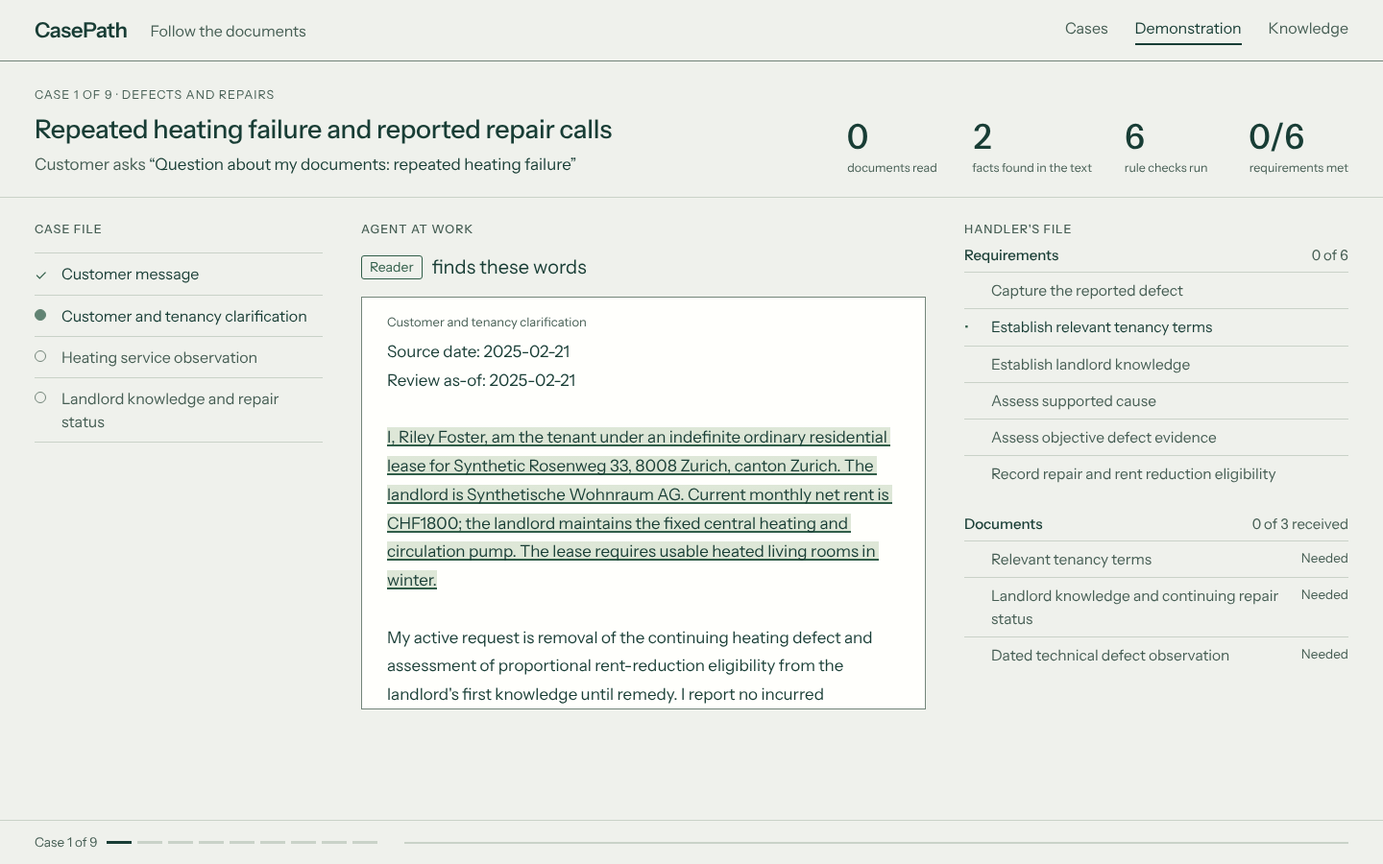
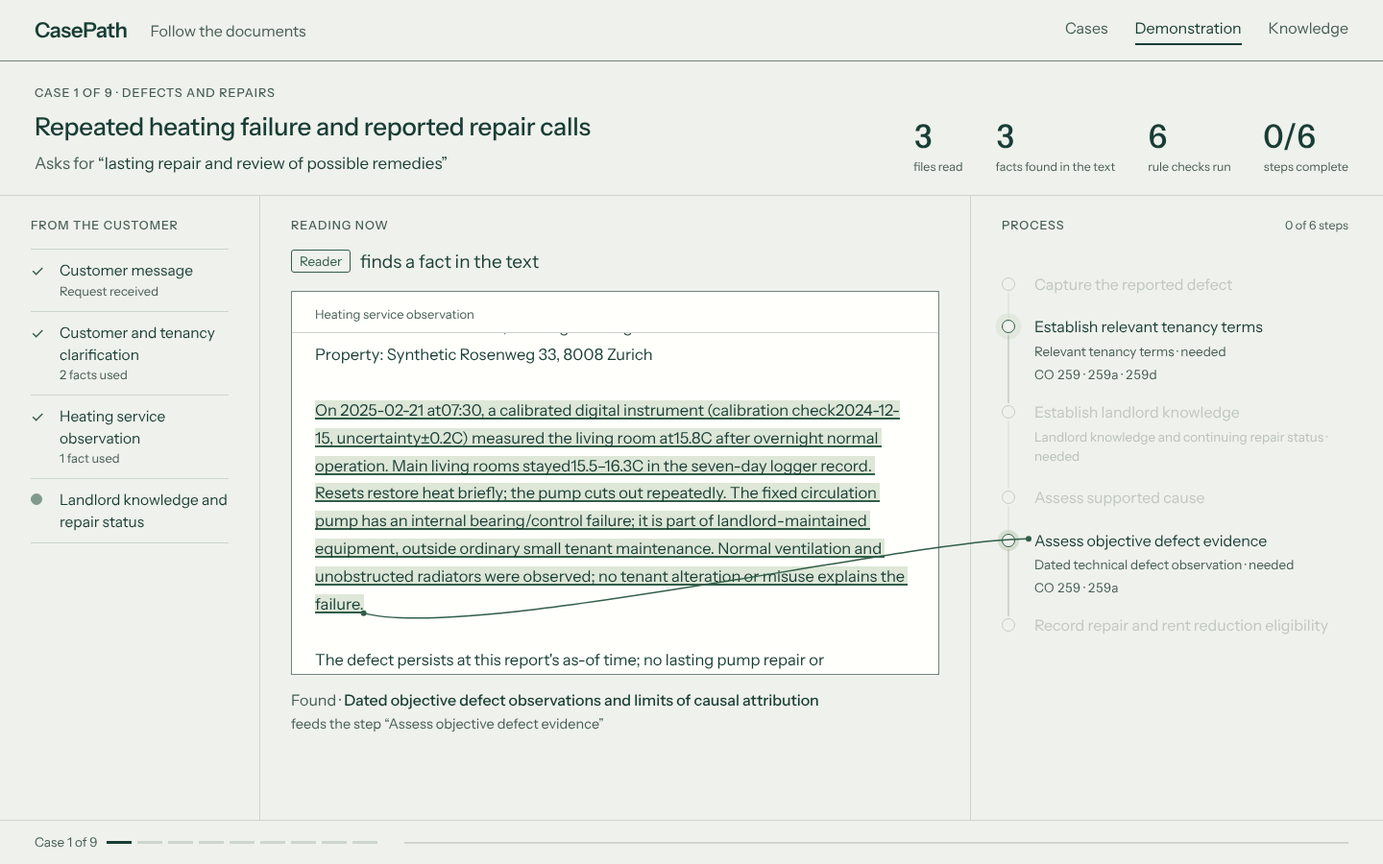
chore(design): agent desk v2 with live process graph, legal tests and useful copy
Claude-Session: https://claude.ai/code/session_01Ua3SP9623UZKFmS3phA6BH

diff --git a/design-plans/desk-20261021/desk.html b/design-plans/desk-20261021/desk.html
@@ -2,129 +2,142 @@
 <html lang="en"><head><meta charset="utf-8"><title>CasePath · Agent desk</title>
 <link rel="stylesheet" href="/assets/autonomous-workspace-v1.css">
 <style>
-:root{--ink:#183d35;--muted:#465e54;--line:#73857a;--hair:#c9d2c8;--green:#315e49;--amber:#80633c;--paper:#fffffc;--field:#eff1ec;--wash:#e1e8db;--ease:cubic-bezier(.2,.65,.3,1)}
+:root{--ink:#183d35;--muted:#465e54;--soft:#5d7268;--line:#73857a;--hair:#cdd6cc;--green:#315e49;--amber:#80633c;--paper:#fffffc;--field:#eff1ec;--wash:#e1e8db;--ease:cubic-bezier(.2,.65,.3,1)}
 *{box-sizing:border-box}html,body{margin:0;background:var(--field);color:var(--ink);font:400 16px/1.5 'CasePath Instrument',Arial,sans-serif;-webkit-font-smoothing:antialiased}
 header.top{height:64px;display:flex;align-items:center;gap:24px;padding:0 36px;border-bottom:1px solid var(--line)}
 .brand{font-weight:600;font-size:22px;letter-spacing:-.02em}.tag{color:var(--muted)}.nav{margin-left:auto;display:flex;gap:28px;color:var(--muted)}.nav b{font-weight:400;color:var(--ink);box-shadow:inset 0 -2px 0 var(--ink);padding-bottom:6px}
-.case{display:grid;grid-template-columns:1fr auto;gap:24px;align-items:end;padding:26px 36px 20px;border-bottom:1px solid var(--hair)}
-.eyebrow{font-size:12.5px;letter-spacing:.08em;text-transform:uppercase;color:var(--muted)}
-.case h1{margin:6px 0 4px;font-size:27px;font-weight:500;letter-spacing:-.01em}
-.asks{color:var(--muted);font-size:17px}.asks q{color:var(--ink)}
-.tally{display:flex;gap:34px}.metric{min-width:96px}.metric .n{font-size:36px;line-height:1;font-weight:500;font-variant-numeric:tabular-nums;letter-spacing:-.02em}.metric .l{margin-top:6px;font-size:12.5px;color:var(--muted)}
-.metric.bump .n{color:var(--green)}
-main{display:grid;grid-template-columns:300px minmax(0,1fr) 400px;gap:40px;padding:24px 36px 0;position:relative}
-.col h2{margin:0 0 14px;font-size:12.5px;font-weight:500;letter-spacing:.08em;text-transform:uppercase;color:var(--muted)}
-.files{list-style:none;margin:0;padding:0}.files li{display:grid;grid-template-columns:18px 1fr;gap:10px;align-items:start;padding:9px 0;border-top:1px solid var(--hair);color:var(--muted);transition:color .3s}
-.files li:last-child{border-bottom:1px solid var(--hair)}
-.dot{width:12px;height:12px;margin-top:5px;border-radius:50%;border:1.5px solid var(--line);display:block}
-.files li.reading{color:var(--ink)}.files li.reading .dot{border-color:var(--green);background:var(--green);animation:breath 1.6s ease-in-out infinite}
-.files li.read{color:var(--ink)}.files li.read .dot{border:0;background:none;margin-top:1px;width:auto;height:auto;color:var(--green)}
-.files li.read .dot::before{content:'✓';font-size:15px}
+.case{display:grid;grid-template-columns:1fr auto;gap:32px;align-items:end;padding:24px 36px 20px;border-bottom:1px solid var(--hair)}
+.eyebrow,.col h2{font-size:12.5px;font-weight:500;letter-spacing:.08em;text-transform:uppercase;color:var(--muted)}
+.case h1{margin:6px 0 6px;font-size:26px;font-weight:500;letter-spacing:-.01em}
+.asks{font-size:17px;color:var(--muted);max-width:760px}.asks q{color:var(--ink)}
+.tally{display:flex;gap:34px}.metric .n{font-size:34px;line-height:1;font-weight:500;font-variant-numeric:tabular-nums;letter-spacing:-.02em;transition:color .4s}.metric .l{margin-top:6px;font-size:12.5px;color:var(--muted)}.metric.bump .n{color:var(--green)}
+main{display:grid;grid-template-columns:270px minmax(0,1fr) 430px;position:relative;min-height:calc(100vh - 64px - 132px - 46px)}
+.col{padding:22px 32px 70px}.col+.col{border-left:1px solid var(--hair)}.col:first-child{padding-left:36px}.col:last-child{padding-right:36px}
+.col h2{margin:0 0 14px;display:flex;justify-content:space-between}.col h2 span{text-transform:none;letter-spacing:0;font-weight:400}
+/* From the customer */
+.files{list-style:none;margin:0;padding:0}.files li{display:grid;grid-template-columns:20px 1fr;column-gap:10px;padding:10px 0;border-top:1px solid var(--hair)}.files li:last-child{border-bottom:1px solid var(--hair)}
+.files .nm{font-size:15.5px;color:var(--soft);transition:color .3s}.files .mt{grid-column:2;font-size:13px;color:var(--muted);min-height:0}
+.st-dot{width:12px;height:12px;margin-top:5px;border-radius:50%;border:1.5px solid var(--line)}
+.files li.reading .nm,.files li.read .nm{color:var(--ink)}.files li.reading .st-dot{border-color:var(--green);background:var(--green);animation:breath 1.6s ease-in-out infinite}
+.files li.read .st-dot{border:0;width:auto;height:auto;margin-top:0;color:var(--green)}.files li.read .st-dot::before{content:'✓'}
 @keyframes breath{50%{opacity:.35}}
-.role{display:flex;align-items:baseline;gap:10px;min-height:32px;font-size:20px}.badge{font-size:14px;border:1px solid var(--green);color:var(--green);border-radius:3px;padding:1px 8px;position:relative;top:-2px}
-.role .what{transition:opacity .25s}
-.source{margin-top:14px;background:var(--paper);border:1px solid var(--line);height:430px;position:relative;display:flex;flex-direction:column}.source .scroll{overflow:hidden;padding:0 26px 22px;flex:1;position:relative}
-.source .name{font-size:13px;color:var(--muted);padding:16px 26px 10px}
-.source .text{white-space:pre-wrap;font-size:17px;line-height:1.75;transition:opacity .25s}
-mark{background:linear-gradient(90deg,rgb(116 155 99/.24) 50%,transparent 50%) right/200% 100% no-repeat;color:inherit;box-shadow:inset 0 -2px 0 transparent;transition:background-position .55s var(--ease),box-shadow .3s .45s}
-mark.on{background-position:left;box-shadow:inset 0 -2px 0 var(--green)}
-.landing{margin-top:14px;min-height:52px;font-size:16px;color:var(--muted);opacity:0;transform:translateY(6px);transition:opacity .3s var(--ease),transform .3s var(--ease)}
-.landing.on{opacity:1;transform:none}.landing b{color:var(--ink);font-weight:500}
-.file h3{display:flex;justify-content:space-between;margin:0 0 6px;font-size:15px;font-weight:500}.file h3 span{color:var(--muted);font-weight:400;font-variant-numeric:tabular-nums}
-.file ul{list-style:none;margin:0 0 22px;padding:0}.file li{display:grid;grid-template-columns:18px 1fr auto;gap:10px;padding:7px 0;border-top:1px solid var(--hair);font-size:15.5px;color:var(--muted);transition:background-color .8s,color .3s}
-.file li .st{font-size:13.5px;color:var(--muted)}
-.file li.done{color:var(--ink)}.file li.done .g::before{content:'✓';color:var(--green)}
-.file li.ev{color:var(--ink)}.file li.ev .g::before{content:'•';color:var(--green)}
-.file li.recv .st{color:var(--green)}
-.file li.glow{background-color:rgb(116 155 99/.22)}
-.g{width:18px}
-.answer{display:none;margin-top:14px;background:var(--paper);border:1px solid var(--line);padding:30px 34px;min-height:430px;opacity:0;transform:translateY(8px);transition:opacity .4s var(--ease),transform .4s var(--ease);position:relative}
-.answer.on{display:block;opacity:1;transform:none}.desk-result .source,.desk-result .landing{display:none}.answer::before{content:'';position:absolute;left:-1px;top:-1px;width:3px;height:0;background:var(--green);transition:height .5s .2s var(--ease)}.answer.on::before{height:calc(100% + 2px)}
-.answer .k{font-size:12.5px;letter-spacing:.08em;text-transform:uppercase;color:var(--muted)}.answer .lead{margin:14px 0 18px;font-size:25px;line-height:1.4;letter-spacing:-.01em}.answer .open{margin:0 0 22px;padding-left:14px;border-left:2px solid var(--amber);color:var(--amber);font-size:17px}.answer .facts{display:flex;gap:28px;margin:0 0 24px;font-size:15px;color:var(--muted)}.answer .facts b{display:block;font-size:22px;color:var(--ink);font-weight:500}
-.answer .actions{display:flex;gap:14px;align-items:center;font-size:15px;color:var(--muted)}.btn{border:1px solid var(--ink);padding:8px 16px;color:var(--ink);border-radius:2px;background:var(--paper)}
-.reuse{font-size:14px;color:var(--green);opacity:0;transition:opacity .4s;margin:-8px 0 14px}.reuse.on{opacity:1}
-svg.thread{position:absolute;inset:0;pointer-events:none;overflow:visible}
-svg.thread path{fill:none;stroke:var(--green);stroke-width:1.5;stroke-linecap:round}
-svg.thread circle{fill:var(--green)}
-footer{position:fixed;left:0;right:0;bottom:0;height:46px;display:flex;align-items:center;gap:10px;padding:0 36px;border-top:1px solid var(--hair);background:var(--field);font-size:13.5px;color:var(--muted)}
+/* Reading now */
+.role{display:flex;align-items:baseline;gap:10px;min-height:30px;font-size:19px}.badge{font-size:13.5px;border:1px solid var(--green);color:var(--green);border-radius:3px;padding:1px 8px;position:relative;top:-2px;white-space:nowrap}
+.doc{margin-top:14px;background:var(--paper);border:1px solid var(--line);height:400px;display:flex;flex-direction:column}
+.doc .name{font-size:13px;color:var(--muted);padding:14px 24px 8px;border-bottom:1px solid var(--hair)}.doc .scroll{overflow:hidden;padding:14px 24px 20px;flex:1;position:relative}
+.doc .text{white-space:pre-wrap;font-size:16.5px;line-height:1.75}
+mark{background:linear-gradient(90deg,rgb(116 155 99/.24) 50%,transparent 50%) right/200% 100% no-repeat;color:inherit;transition:background-position .55s var(--ease),box-shadow .3s .45s}mark.on{background-position:left;box-shadow:inset 0 -2px 0 var(--green)}
+.found{margin-top:14px;min-height:48px;font-size:16px;color:var(--muted);opacity:0;transform:translateY(6px);transition:opacity .3s var(--ease),transform .3s var(--ease)}.found.on{opacity:1;transform:none}.found b{color:var(--ink);font-weight:500}
+/* Process graph */
+.reuse{font-size:13.5px;color:var(--green);margin:-6px 0 12px;min-height:20px;opacity:0;transition:opacity .4s}.reuse.on{opacity:1}
+.graph{position:relative;list-style:none;margin:0;padding:0}
+.node{position:relative;padding:0 0 18px 34px;opacity:.32;transition:opacity .5s var(--ease)}
+.node .c{border-style:dashed}.node.in{opacity:1}.node.in .c{border-style:solid;animation:pop .5s var(--ease)}@keyframes pop{0%{transform:scale(.4)}70%{transform:scale(1.15)}100%{transform:none}}
+.node::before{content:'';position:absolute;left:6px;top:20px;bottom:-2px;width:1.5px;background:var(--hair)}
+.node:last-child::before{display:none}
+.node .fill{position:absolute;left:6px;top:20px;width:1.5px;height:0;background:var(--green);transition:height .6s var(--ease)}
+.node.done .fill{height:calc(100% - 18px)}.node:last-child .fill{display:none}
+.node .c{position:absolute;left:0;top:4px;width:14px;height:14px;border-radius:50%;border:1.5px solid var(--line);background:var(--field);display:grid;place-items:center;font-size:10px;color:var(--paper);transition:all .35s var(--ease)}
+.node.active .c{border-color:var(--green);box-shadow:0 0 0 4px rgb(116 155 99/.22);animation:ring 1.8s ease-in-out infinite}
+@keyframes ring{50%{box-shadow:0 0 0 7px rgb(116 155 99/.08)}}
+.node.done .c{background:var(--green);border-color:var(--green);animation:none;box-shadow:none}.node.done .c::before{content:'✓'}
+.node .lb{font-size:16px;line-height:1.4;color:var(--soft);transition:color .3s}.node.active .lb,.node.done .lb{color:var(--ink)}
+.node .ev{margin-top:4px;display:flex;flex-wrap:wrap;gap:4px 14px;font-size:13.5px;color:var(--muted)}
+.ev span{opacity:0;transition:opacity .4s var(--ease)}.ev span.in{opacity:1}.ev .ok{color:var(--green)}.ev .law{font-variant-numeric:tabular-nums;letter-spacing:.01em}
+.node.glow .lb{background:rgb(116 155 99/.2);transition:background .8s}
+/* Result */
+.result{display:none;margin-top:14px;background:var(--paper);border:1px solid var(--line);border-left:3px solid var(--green);padding:26px 30px;opacity:0;transform:translateY(8px);transition:opacity .45s var(--ease),transform .45s var(--ease)}
+.result.on{display:block;opacity:1;transform:none}.desk-result .doc,.desk-result .found{display:none}
+.result .lead{margin:10px 0 20px;font-size:22px;line-height:1.42;letter-spacing:-.01em}
+.tests{list-style:none;margin:0 0 18px;padding:0}.tests li{display:grid;grid-template-columns:20px 1fr auto;gap:10px;padding:7px 0;border-top:1px solid var(--hair);font-size:15.5px}
+.tests .y{color:var(--green)}.tests .n{color:var(--amber)}.tests .r{color:var(--muted);font-size:13.5px;font-variant-numeric:tabular-nums}
+.open{margin:0 0 20px;padding-left:12px;border-left:2px solid var(--amber);color:var(--amber);font-size:16px}
+.actions{display:flex;gap:14px;align-items:center;font-size:14.5px;color:var(--muted)}.btn{border:1px solid var(--ink);padding:8px 16px;color:var(--ink);border-radius:2px;background:var(--paper)}
+svg.thread{position:absolute;inset:0;pointer-events:none;overflow:visible;z-index:2}svg.thread path{fill:none;stroke:var(--green);stroke-width:1.5;stroke-linecap:round}svg.thread circle{fill:var(--green)}
+footer{position:fixed;left:0;right:0;bottom:0;height:46px;display:flex;align-items:center;gap:10px;padding:0 36px;border-top:1px solid var(--hair);background:var(--field);font-size:13.5px;color:var(--muted);z-index:3}
 footer .pip{width:26px;height:3px;background:var(--hair)}footer .pip.done{background:var(--green)}footer .pip.now{background:var(--ink)}
 footer .prog{flex:1;height:2px;background:var(--hair);margin-left:18px;position:relative}footer .prog i{position:absolute;left:0;top:0;bottom:0;background:var(--green);width:0;transition:width .6s var(--ease)}
+@media (prefers-reduced-motion:reduce){*{transition:none!important;animation:none!important}}
 </style></head><body>
 <header class="top"><span class="brand">CasePath</span><span class="tag">Follow the documents</span><nav class="nav"><span>Cases</span><b>Demonstration</b><span>Knowledge</span></nav></header>
-<section class="case"><div><div class="eyebrow" id="eyebrow"></div><h1 id="title"></h1><div class="asks">Customer asks <q id="asks"></q></div></div>
-<div class="tally"><div class="metric" id="m-docs"><div class="n">0</div><div class="l">documents read</div></div><div class="metric" id="m-facts"><div class="n">0</div><div class="l">facts found in the text</div></div><div class="metric" id="m-rules"><div class="n">0</div><div class="l">rule checks run</div></div><div class="metric" id="m-steps"><div class="n">0/0</div><div class="l">requirements met</div></div></div></section>
+<section class="case"><div><div class="eyebrow" id="eyebrow"></div><h1 id="title"></h1><div class="asks" id="asks"></div></div>
+<div class="tally"><div class="metric" id="m-docs"><div class="n">0</div><div class="l">files read</div></div><div class="metric" id="m-facts"><div class="n">0</div><div class="l">facts found in the text</div></div><div class="metric" id="m-rules"><div class="n">0</div><div class="l">rule checks run</div></div><div class="metric" id="m-steps"><div class="n">0/0</div><div class="l">steps complete</div></div></div></section>
 <main id="main"><svg class="thread" id="thread"></svg>
-<section class="col"><h2>Case file</h2><ul class="files" id="files"></ul></section>
-<section class="col"><h2>Agent at work</h2><div class="role"><span class="badge" id="badge">CasePath</span><span class="what" id="what">opens the case</span></div>
-<div class="source"><div class="name" id="srcname"></div><div class="scroll" id="srcscroll"><div class="text" id="srctext"></div></div></div><div class="landing" id="landing"></div><div class="answer" id="answer"></div></section>
-<section class="col file"><h2>Handler's file</h2><div class="reuse" id="reuse"></div>
-<h3>Requirements <span id="stepcount"></span></h3><ul id="steps"></ul>
-<h3>Documents <span id="doccount"></span></h3><ul id="docs"></ul></section></main>
+<section class="col"><h2>From the customer</h2><ul class="files" id="files"></ul></section>
+<section class="col"><h2>Reading now</h2><div class="role"><span class="badge" id="badge">CasePath</span><span id="what"></span></div>
+<div class="doc"><div class="name" id="docname"></div><div class="scroll" id="scroll"><div class="text" id="text"></div></div></div><div class="found" id="found"></div><div class="result" id="result"></div></section>
+<section class="col"><h2>Process <span id="stepcount"></span></h2><div class="reuse" id="reuse"></div><ol class="graph" id="graph"></ol></section></main>
 <footer><span id="pos"></span><span id="pips" style="display:flex;gap:6px"></span><span class="prog"><i id="prog"></i></span></footer>
 <script>
-const API='/api/claim-loops/v1/autonomous', ROSTER=['clm_314f2d309fea25e6','clm_4a07dbbbd859a3ce','clm_95d08975bc575592','clm_0f4f13b1e3e1328c','clm_393285577dcb12c4','clm_4a53299cfe619303','clm_2c55cdd816b1d0e8','clm_543f08f2415b2a33','clm_7dbd7c7d1c4ddf90'];
-const DOMAIN={defect_mold_heating:'Defects and repairs',lease_termination_dispute:'Lease termination',rent_increase_dispute:'Rent increases',lease_termination:'Lease termination',rent_increase:'Rent increases'};
-const $=id=>document.getElementById(id), h=s=>String(s??'').replace(/[&<>"]/g,c=>({'&':'&amp;','<':'&lt;','>':'&gt;','"':'&quot;'}[c])), sleep=ms=>new Promise(r=>setTimeout(r,ms));
-const reduced=matchMedia('(prefers-reduced-motion: reduce)').matches, SPEED=+(new URLSearchParams(location.search).get('speed')||1);
-const wait=ms=>sleep(reduced?Math.min(ms,400):ms/SPEED);
-// Labels are the recorded names; file names lose only their numeric prefix and extension.
-const fileLabel=n=>String(n||'').replace(/\.[a-z0-9]+$/i,'').replace(/^\d+[-_ ]*/,'').replace(/_\d{4}-\d{2}-\d{2}.*$/,'').replace(/[-_]+/g,' ').replace(/^./,c=>c.toUpperCase());
-function count(id,v){const el=$(id),n=el.querySelector('.n');if(n.textContent!==String(v)){n.textContent=v;el.classList.add('bump');clearTimeout(el._t);el._t=setTimeout(()=>el.classList.remove('bump'),500);}}
-async function load(id){const state=(await (await fetch(`${API}/claims/${id}`)).json()).state;const raw=await (await fetch(`${API}/claims/${id}/operations?mode=live`)).text();
-  return {state,ops:raw.split('\n').filter(Boolean).map(l=>JSON.parse(l)).filter(r=>r.type==='operation')};}
-function thread(fromEl,toEl,range){const svg=$('thread'),m=$('main').getBoundingClientRect();if(!fromEl||!toEl||reduced){svg.innerHTML='';return;}
-  const rs=fromEl.getClientRects(),a=rs.length?rs[rs.length-1]:fromEl.getBoundingClientRect(),b=toEl.getBoundingClientRect(),x1=a.right-m.left,y1=a.bottom-m.top,x2=b.left-m.left+4,y2=b.top+b.height/2-m.top;
-  const d=`M${x1},${y1} C${x1+120},${y1+40} ${x2-140},${y2} ${x2},${y2}`;svg.innerHTML=`<path d="${d}"/><circle cx="${x1}" cy="${y1}" r="3"/><circle cx="${x2}" cy="${y2}" r="0"/>`;
-  const p=svg.querySelector('path'),L=p.getTotalLength();p.style.strokeDasharray=L;p.style.strokeDashoffset=L;
-  p.animate([{strokeDashoffset:L},{strokeDashoffset:0}],{duration:650/SPEED,easing:'cubic-bezier(.2,.65,.3,1)',fill:'forwards'}).onfinish=()=>svg.querySelector('circle:last-child')?.setAttribute('r','3');}
-function clearThread(){const p=$('thread').querySelector('path');if(p)p.animate([{opacity:1},{opacity:0}],{duration:500,fill:'forwards'});$('thread').querySelectorAll('circle').forEach(c=>c.animate([{opacity:1},{opacity:0}],{duration:500,fill:'forwards'}));}
-function role(r,what){$('badge').textContent=r;$('what').textContent=what;}
-function showSource(op,quote){const text=op.result?.text||'',name=fileLabel(op.result?.file_name);$('srcname').textContent=name;const box=$('srctext');
-  if(!quote){box.textContent=text.replace(/^Synthetic demonstration document \(fictional\)\n/,'');$('srcscroll').scrollTop=0;return null;}
-  const at=text.indexOf(quote);if(at<0){box.textContent=text;return null;}
-  box.innerHTML=h(text.slice(0,at)).replace(/^Synthetic demonstration document \(fictional\)\n/,'')+`<mark>${h(quote)}</mark>`+h(text.slice(at+quote.length));
-  const mk=box.querySelector('mark');$('srcscroll').scrollTop=Math.max(0,mk.offsetTop-90);requestAnimationFrame(()=>requestAnimationFrame(()=>mk.classList.add('on')));return mk;}
+const API='/api/claim-loops/v1/autonomous';
+const ROSTER=['clm_314f2d309fea25e6','clm_4a07dbbbd859a3ce','clm_95d08975bc575592','clm_0f4f13b1e3e1328c','clm_393285577dcb12c4','clm_4a53299cfe619303','clm_2c55cdd816b1d0e8','clm_543f08f2415b2a33','clm_7dbd7c7d1c4ddf90'];
+const LABELS={clm_314f2d309fea25e6:'Repeated heating failure and reported repair calls',clm_4a07dbbbd859a3ce:'Heating resets and an uncertain onset date',clm_95d08975bc575592:'Cold mornings and a requested service assessment',clm_0f4f13b1e3e1328c:'An emailed termination and uncertain paper service',clm_393285577dcb12c4:'An unsigned notice and the issuer question',clm_4a53299cfe619303:'Email notice and the complete service record',clm_2c55cdd816b1d0e8:'A blank reason field and a later market email',clm_543f08f2415b2a33:'Rent amounts with an uncertain notification date',clm_7dbd7c7d1c4ddf90:'An increase form and the later email chronology'};
+const DOMAIN={defect_mold_heating:'Defects and repairs',lease_termination_dispute:'Lease termination',rent_increase_dispute:'Rent increases'};
+const $=id=>document.getElementById(id),h=s=>String(s??'').replace(/[&<>"]/g,c=>({'&':'&amp;','<':'&lt;','>':'&gt;','"':'&quot;'}[c])),sleep=ms=>new Promise(r=>setTimeout(r,ms));
+const q=new URLSearchParams(location.search),reduced=matchMedia('(prefers-reduced-motion: reduce)').matches,SPEED=+(q.get('speed')||1);
+const wait=ms=>sleep(reduced?Math.min(ms,300):ms/SPEED);
+// Mechanical labels only: recorded names lose numeric prefixes, extensions and underscores.
+const fileLabel=n=>String(n||'').replace(/\.[a-z0-9]+$/i,'').replace(/^\d+[-_ ]*/,'').replace(/[-_]+/g,' ').replace(/^./,c=>c.toUpperCase());
+const words=s=>String(s||'').replace(/_/g,' ').replace(/^./,c=>c.toUpperCase());
+const law=refs=>{const by=new Map();for(const r of refs||[]){const [code,art]=String(r).split(':');if(!by.has(code))by.set(code,[]);if(!by.get(code).includes(art))by.get(code).push(art);}return [...by].map(([c,a])=>`${c} ${a.join(' · ')}`).join('  ');};
+// The customer's own request, quoted verbatim from the recorded message.
+function request(msg){const m=String(msg||'').match(/(?:specifically asking for|specific request is|meine Bitte|bitte konkret um|request is)\s*:\s*([^;\n.]+)/i);return m?m[1].trim():'';}
+function bump(id,v){const el=$(id),n=el.querySelector('.n');if(n.textContent!==String(v)){n.textContent=v;el.classList.add('bump');clearTimeout(el._t);el._t=setTimeout(()=>el.classList.remove('bump'),550);}}
+async function load(id){const state=(await (await fetch(`${API}/claims/${id}`)).json()).state;const raw=await (await fetch(`${API}/claims/${id}/operations?mode=live`)).text();return {state,ops:raw.split('\n').filter(Boolean).map(l=>JSON.parse(l)).filter(r=>r.type==='operation')};}
+function thread(from,to){const svg=$('thread');if(!from||!to||reduced){svg.innerHTML='';return;}const m=$('main').getBoundingClientRect(),rs=from.getClientRects(),a=rs[rs.length-1]||from.getBoundingClientRect(),b=to.getBoundingClientRect();
+  const x1=a.right-m.left,y1=a.bottom-m.top,x2=b.left-m.left-6,y2=b.top+10-m.top,d=`M${x1},${y1} C${x1+110},${y1+30} ${x2-120},${y2} ${x2},${y2}`;
+  svg.innerHTML=`<path d="${d}"/><circle cx="${x1}" cy="${y1}" r="3"/><circle cx="${x2}" cy="${y2}" r="0"/>`;const p=svg.querySelector('path'),L=p.getTotalLength();p.style.strokeDasharray=L;
+  p.animate([{strokeDashoffset:L},{strokeDashoffset:0}],{duration:650/SPEED,easing:'cubic-bezier(.2,.65,.3,1)',fill:'forwards'}).onfinish=()=>svg.lastElementChild?.setAttribute('r','3');}
+function unthread(){for(const el of $('thread').children)el.animate([{opacity:1},{opacity:0}],{duration:450,fill:'forwards'});}
+function role(r,t){$('badge').textContent=r;$('what').textContent=t;}
+function show(src,quote){const text=(src.result?.text||'').replace(/^Synthetic demonstration document \(fictional\)\n/,'');$('docname').textContent=fileLabel(src.result?.file_name);
+  if(!quote){$('text').textContent=text;$('scroll').scrollTop=0;return null;}const at=text.indexOf(quote);if(at<0){$('text').textContent=text;return null;}
+  $('text').innerHTML=h(text.slice(0,at))+`<mark>${h(quote)}</mark>`+h(text.slice(at+quote.length));const mk=$('text').querySelector('mark');$('scroll').scrollTop=Math.max(0,mk.offsetTop-70);requestAnimationFrame(()=>requestAnimationFrame(()=>mk.classList.add('on')));return mk;}
 async function playCase(i){
-  const id=ROSTER[i],{state,ops}=await load(id),g=state.graph||{},nodes=g.nodes||[],obl=state.obligations||[],texts=new Map();
-  $('eyebrow').textContent=`Case ${i+1} of ${ROSTER.length} · ${DOMAIN[g.family]||''}`;$('title').textContent=state.title?'' :'';$('title').textContent=caseTitle(state);$('asks').textContent=state.title||'';
+  const id=ROSTER[i],{state,ops}=await load(id),g=state.graph||{},nodes=g.nodes||[],o=state.outcome||{},preds=o.legal_predicates||[],texts=new Map();
+  const docLabel=t=>((g.document_catalog||[]).find(d=>d.document_type===t)||(state.obligations||[]).find(d=>d.document_type===t)||{}).label||words(t);
+  const factLabel=fid=>((state.facts||[]).find(f=>f.fact_id===fid)||{}).label||'';
+  const predByQuote=new Map();for(const p of preds)for(const c of p.citations||[])predByQuote.set(c.quote,p);
+  const docFactByQuote=new Map();for(const op of ops)if(op.kind==='fact.extract'&&op.input?.document_type&&op.source?.quote&&!docFactByQuote.has(op.source.quote))docFactByQuote.set(op.source.quote,op.input.document_type);
+  $('eyebrow').textContent=`Case ${i+1} of ${ROSTER.length} · ${DOMAIN[g.family]||''}`;$('title').textContent=LABELS[id]||state.title;
+  const ask=request(state.message);$('asks').innerHTML=ask?`Asks for <q>${h(ask)}</q>`:`Subject <q>${h(state.title)}</q>`;
   $('pos').textContent=`Case ${i+1} of ${ROSTER.length}`;$('pips').innerHTML=ROSTER.map((_,k)=>`<span class="pip ${k<i?'done':k===i?'now':''}"></span>`).join('');
-  const groups=new Map();for(const s of state.source_descriptors||[]){const k=s.role+'|'+s.file_name;if(!groups.has(k))groups.set(k,{...s,ids:[]});groups.get(k).ids.push(s.artifact_id);}const files=[...groups.values()];
-  $('files').innerHTML=files.map(s=>`<li data-role="${h(s.role)}" data-a="${h(s.ids.join(' '))}"><span class="dot"></span><span>${h(s.role==='customer_message'?'Customer message':fileLabel(s.file_name))}</span></li>`).join('');
-  $('steps').innerHTML=nodes.map(n=>`<li data-n="${h(n.node_id)}"><span class="g"></span><span>${h(n.label)}</span><span class="st"></span></li>`).join('');
-  $('docs').innerHTML=obl.map(o=>`<li data-d="${h(o.document_type)}"><span class="g"></span><span>${h(o.label)}</span><span class="st">Needed</span></li>`).join('');
-  document.body.classList.remove('desk-result');$('answer').className='answer';$('answer').innerHTML='';$('reuse').className='reuse';$('landing').className='landing';$('srctext').textContent='';$('srcname').textContent='';
-  let docs=0,facts=0,rules=0,met=0;const total=nodes.length;count('m-docs',0);count('m-facts',0);count('m-rules',0);count('m-steps',`0/${total}`);$('stepcount').textContent=`0 of ${total}`;$('doccount').textContent=`0 of ${obl.length} received`;
-  const ruleKinds=new Set(['condition.evaluate','node.evaluate','dependency.evaluate','process.inspect','document.require']);let recv=0,current=null;
-  role('CasePath','receives the customer message');const cm=document.querySelector('.files li[data-role=customer_message]');if(cm){cm.className='read';count('m-docs',1);}await wait(1400);
+  const groups=new Map();for(const s of state.source_descriptors||[]){const k=s.role+'|'+s.file_name;if(!groups.has(k))groups.set(k,{...s,ids:[]});groups.get(k).ids.push(s.artifact_id);}
+  $('files').innerHTML=[...groups.values()].map(s=>`<li data-role="${h(s.role)}" data-a="${h(s.ids.join(' '))}" data-facts="0"><span class="st-dot"></span><span class="nm">${h(s.role==='customer_message'?'Customer message':fileLabel(s.file_name))}</span><span class="mt"></span></li>`).join('');
+  $('graph').innerHTML=nodes.map(n=>`<li class="node" data-n="${h(n.node_id)}"><span class="fill"></span><span class="c"></span><div class="lb">${h(n.label)}</div><div class="ev">${(n.document_types||[]).map(t=>`<span class="in" data-d="${h(t)}">${h(docLabel(t))} · needed</span>`).join('')}<span class="law"></span></div></li>`).join('');
+  document.body.classList.remove('desk-result');$('result').className='result';$('reuse').className='reuse';$('found').className='found';$('text').textContent='';$('docname').textContent='';$('thread').innerHTML='';
+  let facts=0,rules=0,done=0,current=null;const total=nodes.length,read=()=>document.querySelectorAll('.files li.read').length;
+  ['m-docs','m-facts','m-rules'].forEach(k=>bump(k,0));bump('m-steps',`0/${total}`);$('stepcount').textContent=`0 of ${total} steps`;
+  const cm=document.querySelector('.files li[data-role=customer_message]');role('CasePath','receives the customer’s request');if(cm){cm.className='read';cm.querySelector('.mt').textContent='Request received';bump('m-docs',read());}await wait(1500);
+  const ruleKinds=new Set(['condition.evaluate','dependency.evaluate','process.inspect','document.require']);
+  const fileFor=a=>document.querySelector(`.files li[data-a~="${a}"]`),nodeEl=nid=>document.querySelector(`.node[data-n="${nid}"]`);
+  const setReading=li=>{if(!li||li===current||li.className==='read')return;if(current){current.className='read';bump('m-docs',read());}li.className='reading';current=li;};
   for(const op of ops){
-    if(ruleKinds.has(op.kind)){rules++;if(rules%7===0){count('m-rules',rules);await wait(40);}continue;}
-    count('m-rules',rules);
-    if(op.kind==='source.open'){texts.set(op.object.id,op);const li=document.querySelector(`.files li[data-a~="${op.object.id}"]`);
-      if(current&&current!==li){current.className='read';docs=document.querySelectorAll('.files li.read').length;count('m-docs',docs);}
-      if(li&&li.className!=='read'){li.className='reading';current=li;role('CasePath',`opens ${fileLabel(op.result?.file_name)}`);showSource(op,null);clearThread();await wait(1100);} continue;}
-    if(op.kind==='fact.extract'&&op.source){const src=texts.get(op.source.artifact_id);if(!src)continue;const checker=op.result?.verification_required===false;
-      const li=document.querySelector(`.files li[data-a~="${op.source.artifact_id}"]`);if(li&&li.className!=='read'){if(current&&current!==li){current.className='read';docs=document.querySelectorAll('.files li.read').length;count('m-docs',docs);}li.className='reading';current=li;}
-      const mk=showSource(src,op.source.quote);const docType=op.input?.document_type;const node=nodes.find(n=>(n.document_types||[]).includes(docType));
-      const target=node&&document.querySelector(`#steps li[data-n="${node.node_id}"]`);
-      role(checker?'Checker':'Reader',checker?'confirms these words in the document':'finds these words');if(!checker){facts++;count('m-facts',facts);}
-      const reqLabel=node?.label||(obl.find(o=>o.document_type===docType)||{}).label;$('landing').innerHTML=reqLabel?`${checker?'Confirmed for':'Evidence for'} <b>${h(reqLabel)}</b>`:'';$('landing').className=reqLabel?'landing on':'landing';
-      await wait(500);if(mk&&target){thread(mk,target);if(!target.classList.contains('done'))target.classList.add('ev');}
-      await wait(2300);clearThread();$('landing').className='landing';await wait(250);continue;}
-    if(op.kind==='document.check'&&op.result?.assessment==='sufficient'){const d=document.querySelector(`#docs li[data-d="${op.object.id}"]`);if(d&&!d.classList.contains('recv')){
-      const src=texts.get(op.source?.artifact_id);const mk=src?showSource(src,op.source.quote):null;role('Checker','accepts this document');
-      await wait(400);if(mk)thread(mk,d);d.classList.add('recv','done','glow');d.querySelector('.st').textContent='Received ✓';recv++;$('doccount').textContent=`${recv} of ${obl.length} received`;
-      await wait(1500);d.classList.remove('glow');clearThread();await wait(250);}continue;}
-    if(op.kind==='step.complete'){const s=document.querySelector(`#steps li[data-n="${op.object.id}"]`);if(s&&!s.classList.contains('done')){s.classList.remove('ev');s.classList.add('done','glow');met++;count('m-steps',`${met}/${total}`);$('stepcount').textContent=`${met} of ${total}`;
-      role('Rulebook',`completes “${(nodes.find(n=>n.node_id===op.object.id)||{}).label||''}”`);$('prog').style.width=`${(i+met/total)/ROSTER.length*100}%`;await wait(1100);s.classList.remove('glow');}continue;}
-    if(op.kind==='knowledge.reuse'){const v=op.input?.version,n=op.result?.reused_evidence_recipes;$('reuse').textContent=`Memory reused ${DOMAIN[g.family]||'a procedure'} · version ${v}${n?` · ${n} known document checks`:''}`;$('reuse').className='reuse on';role('Memory',`reuses what earlier cases learned`);await wait(1500);continue;}
-    if(op.kind==='decision'){if(current){current.className='read';current=null;}docs=document.querySelectorAll('.files li.read').length;count('m-docs',docs);const o=state.outcome||{},open=(o.summary||'').split(/(?<=\.)\s+/);
-      role('Rulebook','reaches the result');const lead=open[0]||o.title||'',rest=open.slice(1).join(' ');
-      clearThread();$('answer').innerHTML=`<div class="k">Result for the handler</div><p class="lead">${h(lead)}</p>${rest?`<p class="open">Still open · ${h(rest)}</p>`:''}<div class="facts"><span><b>${met} of ${total}</b>requirements met</span><span><b>${recv} of ${obl.length}</b>documents received</span><span><b>${facts}</b>facts, each with its source</span></div><div class="actions">${o.request_draft?'<span class="btn">Open draft letter</span><span>Draft, not sent · a person decides</span>':'<span>No letter needed</span>'}</div>`;
-      document.body.classList.add('desk-result');$('answer').className='answer on';$('prog').style.width=`${(i+1)/ROSTER.length*100}%`;await wait(7000);continue;}
+    if(op.kind==='node.evaluate'){rules++;const el=nodeEl(op.object.id);if(el&&!el.classList.contains('in')&&op.result?.activation==='true'){el.classList.add('in');await wait(260);}continue;}
+    if(ruleKinds.has(op.kind)){rules++;if(rules%9===0){bump('m-rules',rules);await wait(30);}continue;}
+    bump('m-rules',rules);
+    if(op.kind==='source.open'){texts.set(op.object.id,op);const li=fileFor(op.object.id);if(li&&li.className!=='read'&&li!==current){setReading(li);role('CasePath',`opens ${fileLabel(op.result?.file_name)}`);show(op,null);unthread();$('found').className='found';await wait(1000);}continue;}
+    if(op.kind==='fact.extract'&&op.source){const src=texts.get(op.source.artifact_id);if(!src)continue;const checker=op.result?.verification_required===false,li=fileFor(op.source.artifact_id);setReading(li);
+      const pred=Array.isArray(op.input?.rule_refs),t=op.input?.document_type;const quoteDoc=pred?(docFactByQuote.get(op.source.quote)):t;
+      const node=nodes.find(n=>(n.document_types||[]).includes(quoteDoc))||(pred?nodes.find(n=>n.terminal)||nodes[nodes.length-1]:null);const mk=show(src,op.source.quote),el=node&&nodeEl(node.node_id);
+      const short=q=>{const x=String(q||'').trim();return x.length>90?x.slice(0,88).replace(/\s+\S*$/,'')+'…':x;};const label=pred?`${words(op.object.id)} (${law(op.input.rule_refs)})`:(factLabel(op.object.id)||(t?docLabel(t):'')||`“${short(op.source.quote)}”`);
+      if(el)el.classList.add('in','active');role(checker?'Checker':'Reader',checker?'confirms it word for word':pred?'tests the law against the text':'finds a fact in the text');
+      if(!checker){facts++;bump('m-facts',facts);if(li){li.dataset.facts=+li.dataset.facts+1;li.querySelector('.mt').textContent=`${li.dataset.facts} fact${li.dataset.facts==1?'':'s'} used`;}}
+      $('found').innerHTML=`${checker?'Confirmed':pred?'Legal test':'Found'} · <b>${h(label)}</b>${node?`<br><span style="font-size:14.5px">feeds the step “${h(node.label)}”</span>`:''}`;$('found').className='found on';
+      await wait(450);if(mk&&el)thread(mk,el.querySelector('.lb'));
+      const p=pred?{rule_refs:op.input.rule_refs}:predByQuote.get(op.source.quote);if(el&&p){const lw=el.querySelector('.law');const refs=new Set((lw.dataset.r||'').split(',').filter(Boolean));(p.rule_refs||[]).forEach(r=>refs.add(r));lw.dataset.r=[...refs].join(',');lw.textContent=law([...refs]);lw.classList.add('in');}
+      await wait(2300);unthread();$('found').className='found';await wait(200);continue;}
+    if(op.kind==='document.check'&&op.result?.assessment==='sufficient'){const s=document.querySelector(`.ev span[data-d="${op.object.id}"]`);if(s&&!s.classList.contains('ok')){const src=texts.get(op.source?.artifact_id),mk=src?show(src,op.source.quote):null;
+      role('Checker','accepts the document');const el=s.closest('.node');await wait(350);if(mk)thread(mk,s);s.textContent=`${docLabel(op.object.id)} · received ✓`;s.classList.add('ok');el?.classList.add('glow');await wait(1400);el?.classList.remove('glow');unthread();await wait(200);}continue;}
+    if(op.kind==='step.complete'){const el=nodeEl(op.object.id);if(el&&!el.classList.contains('done')){el.classList.add('in');el.classList.remove('active');el.classList.add('done');done++;bump('m-steps',`${done}/${total}`);$('stepcount').textContent=`${done} of ${total} steps`;
+      role('Rulebook',`completes “${(nodes.find(n=>n.node_id===op.object.id)||{}).label||''}”`);$('prog').style.width=`${(i+done/total)/ROSTER.length*100}%`;await wait(1000);}continue;}
+    if(op.kind==='knowledge.reuse'){$('reuse').textContent=`Built on ${DOMAIN[g.family]||'a procedure'} v${op.input?.version}, learned from earlier cases${op.result?.reused_evidence_recipes?` · ${op.result.reused_evidence_recipes} document checks reused`:''}`;$('reuse').className='reuse on';role('Memory','reuses what earlier cases learned');await wait(1500);continue;}
+    if(op.kind==='decision'){if(current){current.className='read';current=null;}bump('m-docs',read());unthread();role('Rulebook','delivers the result');
+      const sentences=(o.summary||'').split(/(?<=\.)\s+/),lead=sentences[0]||'',rest=sentences.slice(1).join(' ');
+      const tests=[...preds].sort((x,y)=>(x.status==='supported')-(y.status==='supported')).map(p=>`<li><span class="${p.status==='supported'?'y':'n'}">${p.status==='supported'?'✓':'✕'}</span><span>${h(words(p.predicate_id))}${p.status==='supported'?'':' — not met'}</span><span class="r">${h(law(p.rule_refs))}</span></li>`).join('');
+      $('result').innerHTML=`<div class="eyebrow">Result for the handler</div><p class="lead">${h(lead)}</p>${tests?`<div class="eyebrow" style="margin-bottom:6px">Legal tests</div><ul class="tests">${tests}</ul>`:''}${rest?`<p class="open">Still open · ${h(rest)}</p>`:''}<div class="actions">${o.request_draft?'<span class="btn">Open draft letter</span><span>Draft, not sent · a person decides</span>':''}</div>`;
+      document.body.classList.add('desk-result');$('result').className='result on';$('prog').style.width=`${(i+1)/ROSTER.length*100}%`;await wait(+(q.get('hold')||8000));continue;}
   }
 }
-const words=s=>String(s||'').replace(/_/g,' ');
-const LABELS={clm_314f2d309fea25e6:'Repeated heating failure and reported repair calls',clm_4a07dbbbd859a3ce:'Heating resets and an uncertain onset date',clm_95d08975bc575592:'Cold mornings and a requested service assessment',clm_0f4f13b1e3e1328c:'An emailed termination and uncertain paper service',clm_393285577dcb12c4:'An unsigned notice and the issuer question',clm_4a53299cfe619303:'Email notice and the complete service record',clm_2c55cdd816b1d0e8:'A blank reason field and a later market email',clm_543f08f2415b2a33:'Rent amounts with an uncertain notification date',clm_7dbd7c7d1c4ddf90:'An increase form and the later email chronology'};
-function caseTitle(state){return LABELS[state.claim_id]||state.title||state.claim_id}
-(async()=>{const start=+(new URLSearchParams(location.search).get('case')||0);for(let i=start;i<ROSTER.length;i++){await playCase(i);}})();
+(async()=>{for(let i=+(q.get('case')||0);i<ROSTER.length;i++)await playCase(i);})();
 </script></body></html>
